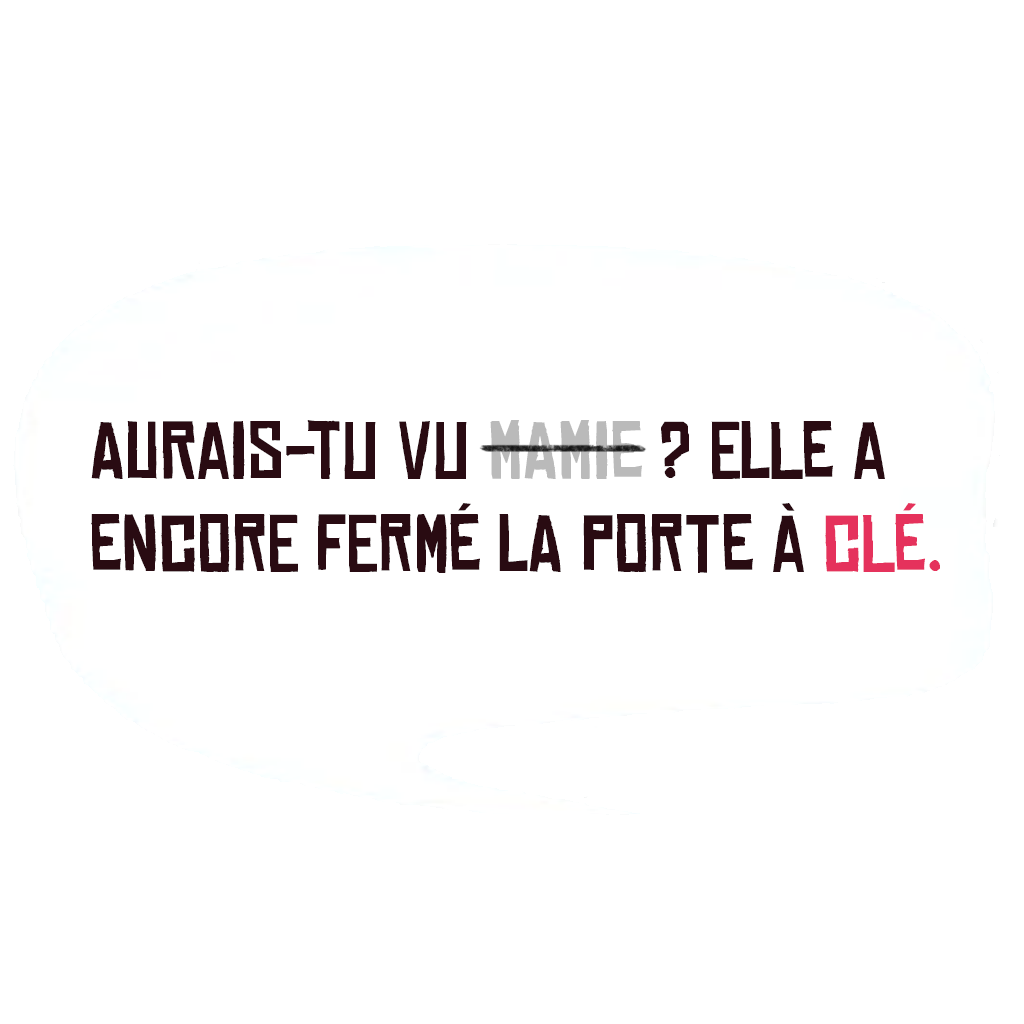
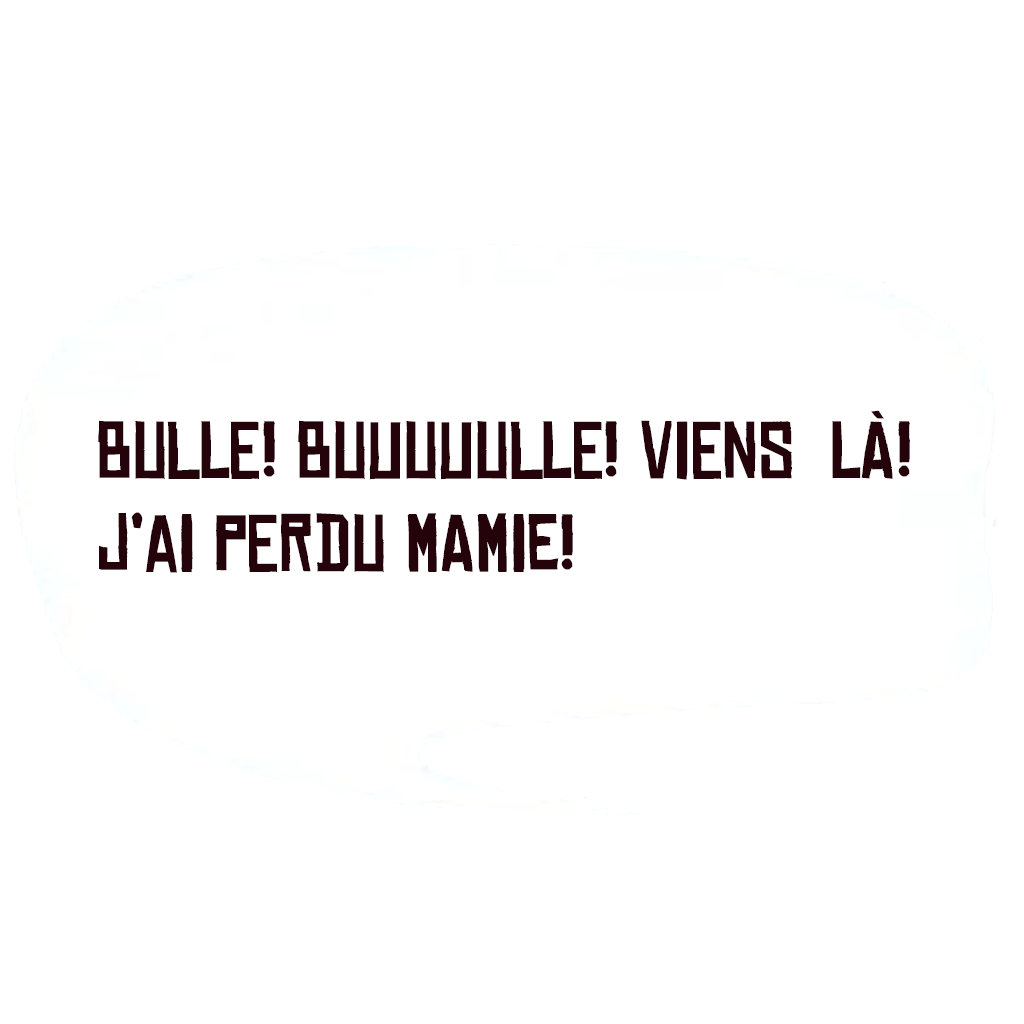
Add bubble mono

Changed region(s): [[0.0625, 0.5, 0.9062, 0.5625], [0.0938, 0.4062, 0.9062, 0.4688]]

diff --git a/Assets/_Content/_Scripts/Interactable/Interactable.cs b/Assets/_Content/_Scripts/Interactable/Interactable.cs
@@ -76,6 +76,7 @@ public class Interactable : MonoBehaviour
 	[FoldoutGroup("Scriptable")][SerializeField] private RSO_LockInputs m_rsoLockInputs;
 	[FoldoutGroup("Scriptable")][SerializeField] private RSE_SetCameraLerp m_rseSetCameraLerp;
 	[FoldoutGroup("Scriptable")][SerializeField] private RSO_LockCursor m_rsoLockCursor;
+	[FoldoutGroup("Scriptable")][SerializeField] private RSE_SetMono m_rseSetMono;
 
 	[SerializeField] public bool IsValid = true;
 	[SerializeField] public bool IsInteractive = true; 
@@ -171,12 +172,31 @@ public class Interactable : MonoBehaviour
 				float InteractableScale = spawnInteractable.transform.localScale.x;
 				spawnInteractable.transform.localScale = Vector3.zero;
 				spawnInteractable.transform.DOScale(InteractableScale, 1f).SetEase(Ease.OutBounce).SetLink(gameObject);
-				spawnInteractable.transform.DOJump(m_spawnPosition.position, 1f, 1, 0.5f).SetEase(Ease.Linear).SetLink(gameObject).OnComplete(() => { m_rsePlaySoundOfType.Call(m_type, m_pfItemSpawned.PickupType);});
+				spawnInteractable.transform.DOJump(m_spawnPosition.position, m_ssoInteractables.PlaceDoJumpPower, m_ssoInteractables.PlaceDoJumpNumber, m_ssoInteractables.PlaceDoJumpDuration)
+					.SetEase(Ease.Linear)
+					.SetLink(gameObject)
+					.OnComplete(() => 
+				{ 
+					m_rsePlaySoundOfType.Call(m_type, m_pfItemSpawned.PickupType);
+				});
 
-                if (m_pfItemSpawned.PickupType == ItemType.DIVING_SUIT)
+				if (m_pfItemSpawned.PickupType == ItemType.KEY)
+				{
+					m_rseSetMono.Call(CharacterType.GRANDPA);
+				}
+				else if (m_pfItemSpawned.PickupType == ItemType.DIVING_SUIT)
 				{
 					// Enable next fisherman interactable
 					m_interactableFishermanBoot.IsValid = true;
+					m_rseSetMono.Call(CharacterType.FISHERMAN);
+				}
+				else if (m_pfItemSpawned.PickupType == ItemType.LADDER)
+				{
+					m_rseSetMono.Call(CharacterType.COAST_GUARD);
+				}
+				else if (m_pfItemSpawned.PickupType == ItemType.PLANT)
+				{
+					m_rseSetMono.Call(CharacterType.SINGER);
 				}
 				break;
 
@@ -240,11 +260,18 @@ public class Interactable : MonoBehaviour
 		{
 			case ItemType.BOOT:
 				m_rseSetBubble.Call(CharacterType.FISHERMAN, 1);
+
 				GameObject fish = Instantiate(m_pfFish, transform.position, Quaternion.identity);
 				float fishScale = fish.transform.localScale.x;
 				fish.transform.localScale = Vector3.zero;
 				fish.transform.DOScale(fishScale, 1f).SetEase(Ease.OutBounce).SetLink(gameObject);
-				fish.transform.DOJump(m_fishSpawnPosition.position, 1f, 1, 0.5f).SetEase(Ease.Linear).SetLink(gameObject).OnComplete(() => { m_rsePlaySoundOfType.Call(m_type, ItemType.FISH); });
+				fish.transform.DOJump(m_fishSpawnPosition.position, m_ssoInteractables.PlaceDoJumpPower, m_ssoInteractables.PlaceDoJumpNumber, m_ssoInteractables.PlaceDoJumpDuration)
+					.SetEase(Ease.Linear)
+					.SetLink(gameObject)
+					.OnComplete(() => 
+				{ 
+					m_rsePlaySoundOfType.Call(m_type, ItemType.FISH); 
+				});
 				break;
 
 			case ItemType.FISH:

diff --git a/Assets/_Content/_Scripts/Manager/BubbleManager.cs b/Assets/_Content/_Scripts/Manager/BubbleManager.cs
@@ -6,6 +6,7 @@ using UnityEngine;
 public class BubbleManager : MonoBehaviour
 {
 	[FoldoutGroup("Scriptable")][SerializeField] private RSE_SetBubble m_rseSetBubble;
+	[FoldoutGroup("Scriptable")][SerializeField] private RSE_SetMono m_rseSetMono;
 
 	private List<Bubble> m_bubbles = new List<Bubble>();
 
@@ -17,15 +18,22 @@ public class BubbleManager : MonoBehaviour
 	private void OnEnable()
 	{
 		m_rseSetBubble.Action += SetBubble;
+		m_rseSetMono.Action += SetMono;
 	}
 
 	private void OnDisable()
 	{
 		m_rseSetBubble.Action -= SetBubble;
+		m_rseSetMono.Action -= SetMono;
 	}
 
 	private void SetBubble(CharacterType type, int index)
 	{
 		m_bubbles.FirstOrDefault(b => b.Type == type)?.SetIndex(index);
+	}
+
+	private void SetMono(CharacterType type)
+	{
+		m_bubbles.FirstOrDefault(b => b.Type == type)?.SetMono();
 	}
 }

diff --git a/Assets/_Content/_Scripts/Interactable/Bubble.cs b/Assets/_Content/_Scripts/Interactable/Bubble.cs
@@ -8,6 +8,8 @@ public class Bubble : MonoBehaviour
 	[Title("Tweakable values")]
 	[SerializeField] public CharacterType Type;
     [SerializeField] private List<Sprite> m_sprites = new List<Sprite>();
+	[SerializeField] private float m_idMono;
+	[SerializeField] private Sprite m_spMono;
 
     [FoldoutGroup("Internal references")][SerializeField] private GameObject m_graphicsParent;
 	[FoldoutGroup("Internal references")][SerializeField] private SpriteRenderer m_spriteRenderer;
@@ -81,6 +83,15 @@ public class Bubble : MonoBehaviour
 		{
 			m_spriteRenderer.sprite = m_sprites[Index];
 		}
+	}
+
+	public void SetMono()
+	{
+		// Assertion
+		if (!m_spMono) return;
+		if (m_idMono != Index) return;
+		
+		m_spriteRenderer.sprite = m_spMono;
 	}
 
 	public void AnimateCollision()

diff --git a/Assets/_Content/_Scripts/Scriptables/Runtime Scriptable/Bubble/RSE_SetMono.cs b/Assets/_Content/_Scripts/Scriptables/Runtime Scriptable/Bubble/RSE_SetMono.cs
@@ -1,0 +1,5 @@
+using Scriptables;
+using UnityEngine;
+
+[CreateAssetMenu(fileName = "RSE_SetMono", menuName = "Runtime Scriptable/Bubble/Set Mono")]
+public class RSE_SetMono : RuntimeScriptableEvent<CharacterType> { }
